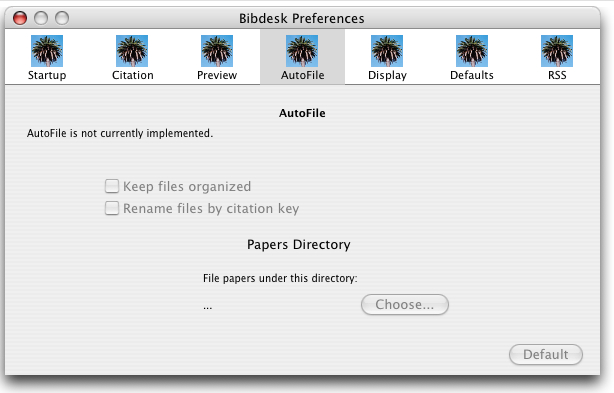
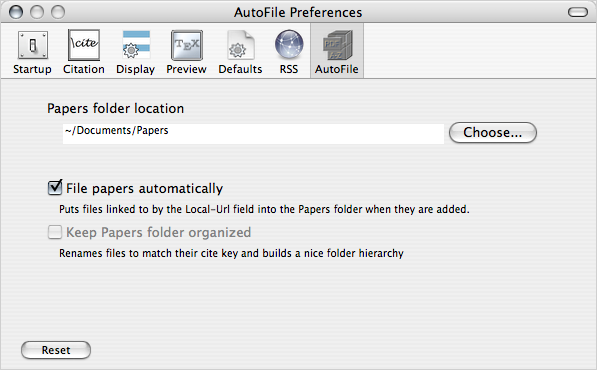
Added updated autofile info to Help.
Added some detail to the 'defaults' pref pane description

Added a menu along the top of prefpanes help page.

diff --git a/bibdesk/BibDesk Help/prefs.htm b/bibdesk/BibDesk Help/prefs.htm
@@ -13,8 +13,26 @@
 Preferences
 </b></font>
 
+<p><font size="-1" face="Lucida Grande,Geneva,Arial">
+This help page describes options in the preferences you can use to customize Bibdesk.
+To change your preferences, choose "Preferences" from the "Bibdesk" menu, or press the key shortcut &#8984;-, (Command - comma).
+</font></p>
+
+<p><font size="+1" face="Lucida Grande,Geneva,Arial">Preference Panes:</font>
+<font size="-1" face="Lucida Grande,Geneva,Arial">
+<ul>
+<li><a href="#startup">Startup</a> - Change what Bibdesk does when starting up, such as opening specific files.</li>
+<li><a href="#citation">Citation</a> - Set what you get when copying or dragging citations to other apps.</li>
+<li><a href="#preview">Preview</a> - Change the default settings for using LaTeX in the typeset preview window.</li>
+<li><a href="#display">Display</a> - Change how Bibdesk looks.</li>
+<li><a href="#autofile">AutoFile</a> - Set up a directory to automatically store copies of papers.</li>
+<li><a href="#defaults">Defaults</a> - Add fields that Bibdesk will add to every entry.</li>
+<li><a href="#rss">RSS</a> - Configure syndication settings.</li>
+</ul>
+</font></p>
+
 <p><font size="+1"  face="Lucida Grande,Helvetica,Geneva"><b>
-Startup
+<a name="startup"></a>Startup
 </b></font></p>
 
 <img src="gfx/startupPrefs.png" alt="" height="394" width="618">
@@ -24,7 +42,7 @@ This panel controls what BibDesk does when it starts up. Clicking the &#8216;Ope
 </font></p>
 
 <p><font size="+1"  face="Lucida Grande,Helvetica,Geneva"><b>
-Citation
+<a name="citation"></a>Citation
 </b></font></p>
 
 <img src="gfx/citationPrefs.png" alt="" height="553" width="642">
@@ -50,7 +68,7 @@ Citation
 </font></p>
 
 <p><font size="+1"  face="Lucida Grande,Helvetica,Geneva"><b>
-Preview
+<a name="preview"></a>Preview
 </b></font></p>
 
 <img src="gfx/previewPrefs.png" alt="" height="394" width="625">
@@ -64,7 +82,7 @@ Preview
 </font></p>
 
 <p><font size="+1"  face="Lucida Grande,Helvetica,Geneva"><b>
-Display
+<a name="display"></a>Display
 </b></font></p>
 
 <img src="gfx/displayPrefs.png" alt="" height="339" width="615">
@@ -78,23 +96,24 @@ Display
 </font></p>
 
 <p><font size="+1"  face="Lucida Grande,Helvetica,Geneva"><b>
-AutoFile
+<a name="autofile"></a>AutoFile
 </b></font></p>
 
 <img src="gfx/autoFilePrefs.png" alt="" height="393" width="614">
 
 <p><font size="-1" face="Lucida Grande,Geneva,Arial">
-Sorry, the AutoFile pane is a teaser for right now. In the future, it will contain settings to allow you to automatically manage local copies of papers.
+AutoFile lets you choose a folder as your "Papers Folder" to automatically move files into when you link to them. You can do this to all files at once, or automatically as they are added. Use this preference pane to select the Papers Folder and to choose whether to automatically move files. See <a href="AutoFile.htm">Keeping Papers Organized with AutoFile</a> for more information.
 </font></p>
 
 <p><font size="+1"  face="Lucida Grande,Helvetica,Geneva"><b>
-Default Fields
+<a name="defaults"></a>Default Fields
 </b></font></p>
 
 <img src="gfx/defaultsPrefs.png" alt="" height="424" width="618">
 
 <p><font size="-1" face="Lucida Grande,Geneva,Arial">
-<em>BibTeX Fields</em>: You can set fields to be added to publications by default here. They are added when a file is opened and if a new publication is made.
+<em>BibTeX Fields</em>: You can set fields to be added to publications by default here. They are added when a file is opened and if a new publication is made.<br>
+Tip: Use this for fields you would like to use on every entry to avoid adding them every time. For example, a rating field or one that reminds you if you've read the cited paper.
 </font></p>
 
 <p><font size="-1" face="Lucida Grande,Geneva,Arial">
@@ -102,7 +121,7 @@ Default Fields
 </font></p>
 
 <p><font size="+1"  face="Lucida Grande,Helvetica,Geneva"><b>
-RSS
+<a name="rss"></a>RSS
 </b></font></p>
 
 <img src="gfx/rssPrefs.png" alt="" height="592" width="622">

diff --git a/bibdesk/BibDesk Help/autofile.htm b/bibdesk/BibDesk Help/autofile.htm
@@ -1,0 +1,53 @@
+<!DOCTYPE HTML PUBLIC "-//W3C//DTD HTML 4.01 Transitional//EN"
+        "http://www.w3.org/TR/1999/REC-html401-19991224/loose.dtd">
+<html>
+<head>
+	<title>AutoFile</title> 
+	<meta http-equiv="content-type" content="text/html; charset=x-mac-roman">
+	<meta name="generator" content="SubEthaEdit">
+</head>
+<body text="#000000" bgcolor="#ffffff">
+
+<img src="gfx/BibDeskIcon.png" alt="" height="48" width="48">
+<font size="+2"  face="Lucida Grande,Helvetica,Geneva"><b>
+AutoFile
+</b></font>
+
+<p><font size="-1" face="Lucida Grande,Geneva,Arial">
+This help page describes how to use the AutoFile feature to keep your electronic copies of papers organized.
+You will need to choose a Papers Folder as described in the <a href="prefs.htm#autofile">AutoFile preference pane help topic</a>.
+</font></p>
+
+<p><font size="+1" face="Lucida Grande,Geneva,Arial">Topics:</font>
+<font size="-1" face="Lucida Grande,Geneva,Arial">
+<ul>
+<li><a href="#consolidating">Consolidate Linked Files</a> - Move all linked files to your Papers Folder.</li>
+<li><a href="#automatic">Automatically Move Files</a> - How Bibdesk can keep new papers organized automatically once you've consolidated them.</li>
+</ul>
+</font></p>
+
+<p><font size="+1"  face="Lucida Grande,Helvetica,Geneva"><b>
+<a name="consolidating"></a>Consolidate Linked Files
+</b></font></p>
+
+<img src="gfx/consolidateLinkedFiles.png" alt="" >
+
+<p><font size="-1" face="Lucida Grande,Geneva,Arial">
+Choose this command to scan all publications in the file for linked files. <br>A preview window will be opened that shows you some information about each of the linked files. You can then choose to move them all to your Papers Folder or cancel. 
+</font></p>
+
+<img src="gfx/consolidateLinkedFilesWindow.png" alt="" >
+
+<p><font size="-1" face="Lucida Grande,Geneva,Arial">
+You have the option to change links that match files in the Papers Folder. This means that if a link specifies a filename that already exists in the Papers Folder, even if the link isn't pointing to the Papers Folder, Bibdesk will change the link to point to the Papers Folder. You can also optionally delete a duplicate file if a file with the same name exists in the Papers Folder. 
+</font></p>
+
+<p><font size="+1"  face="Lucida Grande,Helvetica,Geneva"><b>
+<a name="automatic"></a>Automatically Move Files
+</b></font></p>
+
+<p><font size="-1" face="Lucida Grande,Geneva,Arial">
+When linking a file by dragging and dropping it onto an edit window or the publications table, or by using the Choose File button in the edit window, AutoFile will automatically move the file to the Papers Folder if the "File Papers Automatically" preference is selected, as described in the <a href="prefs.htm#autofile">AutoFile preference pane help topic</a>.
+</font></p>
+</body>
+</html>

diff --git a/bibdesk/BibDesk Help/index.htm b/bibdesk/BibDesk Help/index.htm
@@ -38,16 +38,19 @@
 		<a href="search.htm">Searching for references</a>
 		<br>
 		<br>
+		<a href="autofile.htm">Keeping your files organized (AutoFile)</a>
+		<br>
+		<br>
 		<a href="tex.htm">Integrating with TeX</a>
 		<br>
 		<br>
 		<a href="prefs.htm">Preferences</a>
 		<br>
 		<br>
-		<a href="import.htm">Importing from pubmed</a>
+		<a href="import.htm">Importing RIS Format Files (PubMed and ScienceDirect)</a>
 		<br>
 		<br>
-		<a href="export.htm">Exporting to html and rss</a>
+		<a href="export.htm">Exporting to HTML and RSS</a>
 		<br>
 		<br>
 		<a href="charconvert.htm">Character Conversion</a>
